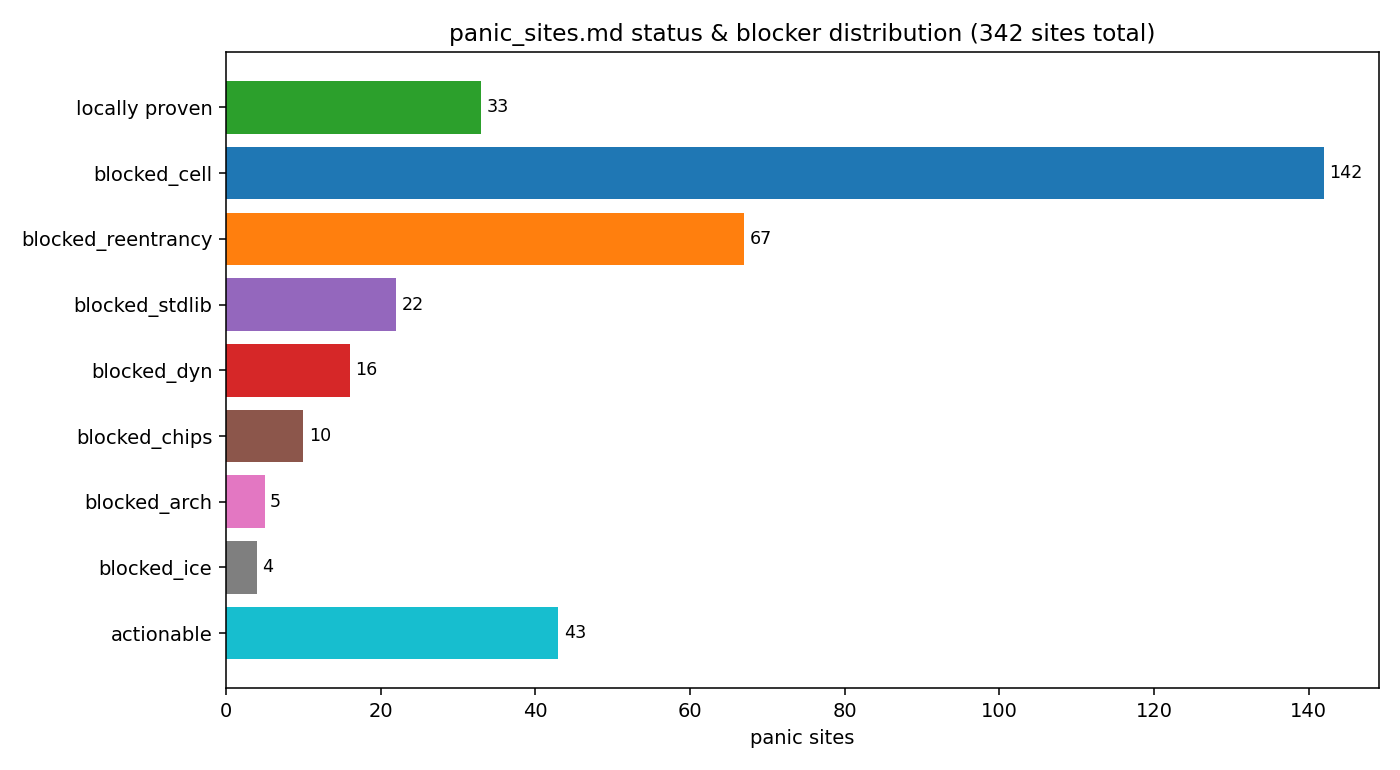
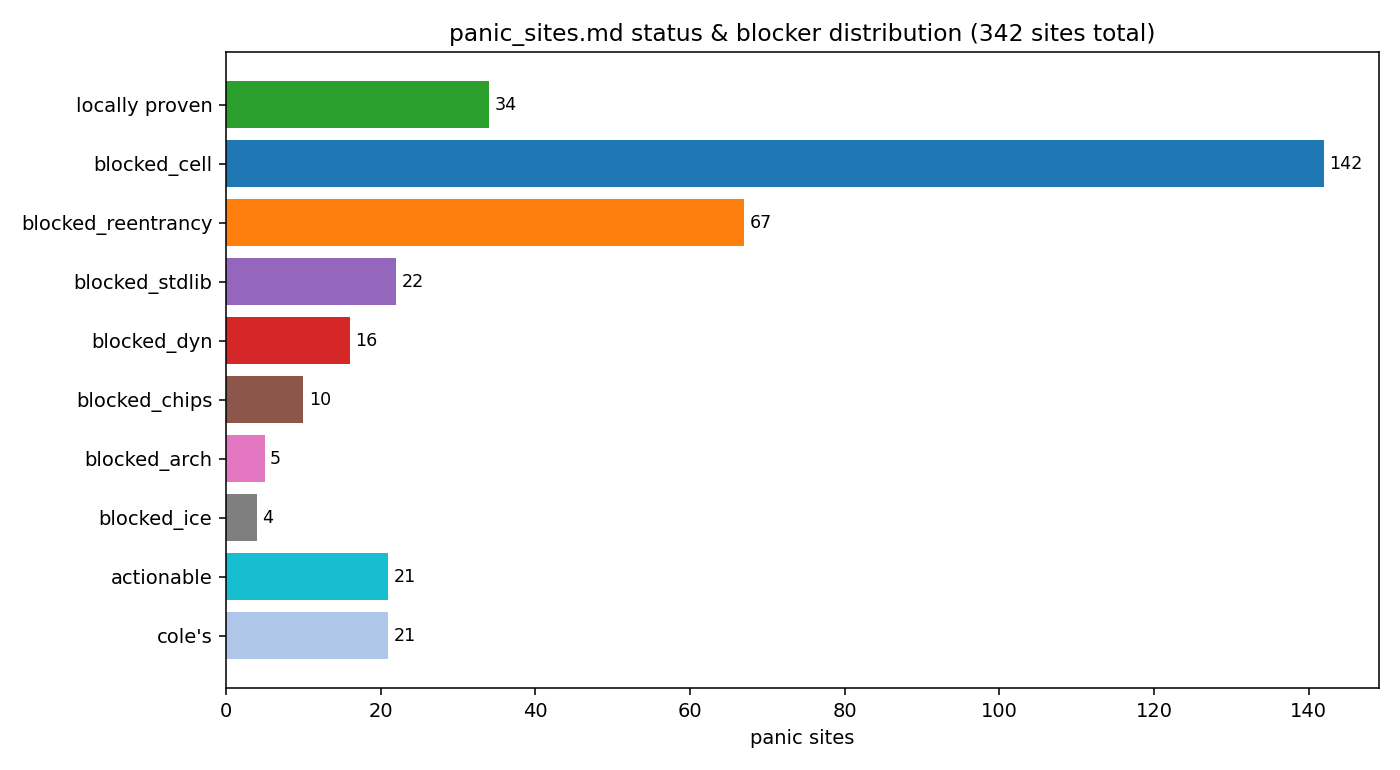
Add one locally proven row to sixlowpan_state

Changed region(s): [[0.0, 0.0935, 0.9829, 0.8727], [0.0614, 0.1247, 0.1536, 0.1558]]

diff --git a/capsules/extra/src/net/sixlowpan/sixlowpan_state.rs b/capsules/extra/src/net/sixlowpan/sixlowpan_state.rs
@@ -264,6 +264,8 @@ pub mod lowpan_frag {
     pub const FRAGN_HDR_SIZE: usize = 5;
 }
 
+#[flux_rs::trusted(reason = "Body has `&mut hdr[0..2]` and `&mut hdr[2..4]` sub-slices passed to `u16_to_network_slice` (precondition `n >= 2`); requires `valid_output` slice-output extern-spec gap to discharge. Sig captures local proof for the targeted hdr[4] panic (panic_sites row 0xba58) — provable from `hdr.len() >= 5`.")]
+#[flux_rs::sig(fn(dgram_size: u16, dgram_tag: u16, dgram_offset: usize, hdr: &mut [u8]{n: n >= 5}, is_frag1: bool))]
 fn set_frag_hdr(
     dgram_size: u16,
     dgram_tag: u16,
@@ -271,6 +273,7 @@ fn set_frag_hdr(
     hdr: &mut [u8],
     is_frag1: bool,
 ) {
+    flux_support::assert(hdr.len() >= 5);
     let mask = if is_frag1 {
         lowpan_frag::FRAG1_HDR
     } else {
@@ -284,6 +287,7 @@ fn set_frag_hdr(
     }
 }
 
+#[flux_rs::trusted(reason = "Cascade: needs hdr.len() >= 5 precondition; bounds on hdr[0]/hdr[4] + the [0..2]/[2..4] sub-slices into network_slice_to_u16. Local proof obligation similar to set_frag_hdr's sig but caller-side discharge unknown.")]
 fn get_frag_hdr(hdr: &[u8]) -> (bool, u16, u16, usize) {
     let is_frag1 = match hdr[0] & lowpan_frag::FRAGN_HDR {
         lowpan_frag::FRAG1_HDR => true,
@@ -296,6 +300,7 @@ fn get_frag_hdr(hdr: &[u8]) -> (bool, u16, u16, usize) {
     (is_frag1, dgram_size, dgram_tag, (dgram_offset as usize) * 8)
 }
 
+#[flux_rs::trusted(reason = "Cascade: needs packet.len() >= 1 precondition for packet[0].")]
 fn is_fragment(packet: &[u8]) -> bool {
     let mask = packet[0] & lowpan_frag::FRAGN_HDR;
     (mask == lowpan_frag::FRAGN_HDR) || (mask == lowpan_frag::FRAG1_HDR)
@@ -529,6 +534,7 @@ impl<'a> TxState<'a> {
         Ok(frame)
     }
 
+    #[flux_rs::trusted(reason = "IP6Packet refinement (kind != 1) + slice-output gap on `packet[written..written + remaining]`")]
     fn prepare_next_fragment<'b>(
         &self,
         ip6_packet: &'b IP6Packet<'b>,
@@ -564,6 +570,7 @@ impl<'a> TxState<'a> {
 
     // NOTE: This function will not work for headers that span past the first
     // frame.
+    #[flux_rs::trusted(reason = "IP6Packet refinement (kind != 1) for `get_total_hdr_size`/`encode` calls")]
     fn write_additional_headers<'b>(
         &self,
         ip6_packet: &'b IP6Packet<'b>,
@@ -589,6 +596,7 @@ impl<'a> TxState<'a> {
         (payload_len, dgram_offset)
     }
 
+    #[flux_rs::trusted(reason = "cascade from set_frag_hdr precondition `hdr.len() >= 5`")]
     fn write_frag_hdr(&self, frame: &mut Frame, first_frag: bool) -> usize {
         if first_frag {
             let mut frag_header = [0_u8; lowpan_frag::FRAG1_HDR_SIZE];
@@ -716,6 +724,7 @@ impl<'a> RxState<'a> {
     // This function assumes that the payload is a slice starting from the
     // actual payload (no 802.15.4 headers, no fragmentation headers), and
     // returns true if the packet is completely reassembled.
+    #[flux_rs::trusted(reason = "slice-output gap on `packet[written..written + remaining]` and `packet[dgram_offset..]`")]
     fn receive_next_frame(
         &self,
         payload: &[u8],
@@ -916,6 +925,7 @@ impl<'a, A: time::Alarm<'a>, C: ContextStore> Sixlowpan<'a, A, C> {
         }
     }
 
+    #[flux_rs::trusted(reason = "slice-output gap on `packet[written..written + remaining]`")]
     fn receive_single_packet(
         &self,
         payload: &[u8],

diff --git a/tools/panic_sites.md b/tools/panic_sites.md
@@ -130,18 +130,18 @@ Each panic site has a verification status (orthogonal to `Blockers`; ownership l
 | `0xb0be` | `explicit_panic` | [capsules/extra/src/net/sixlowpan/sixlowpan_compression.rs:1071](https://github.com/ninehusky/tock/blob/9548b2ed92b4da0094fe6c11b8ea3e4a273988de/capsules/extra/src/net/sixlowpan/sixlowpan_compression.rs#L1071) | `_ => panic!("Unreachable case"),` | OK |  | not started | cole |
 | `0xb286` | `explicit_panic` | [capsules/extra/src/net/sixlowpan/sixlowpan_compression.rs:1110](https://github.com/ninehusky/tock/blob/9548b2ed92b4da0094fe6c11b8ea3e4a273988de/capsules/extra/src/net/sixlowpan/sixlowpan_compression.rs#L1110) | `_ => panic!("Unreachable case"),` | OK |  | not started | cole |
 | `0xadc2` | `slice_order` | [capsules/extra/src/net/sixlowpan/sixlowpan_compression.rs:1181](https://github.com/ninehusky/tock/blob/9548b2ed92b4da0094fe6c11b8ea3e4a273988de/capsules/extra/src/net/sixlowpan/sixlowpan_compression.rs#L1181) | `let checksum = u16::from_be(network_slice_to_u16(&buf[*consumed..*consumed + 2]));` | likely OK |  | not started | cole |
-| `0x1ded4` | `bounds` | [capsules/extra/src/net/sixlowpan/sixlowpan_state.rs](https://github.com/ninehusky/tock/blob/9548b2ed92b4da0094fe6c11b8ea3e4a273988de/capsules/extra/src/net/sixlowpan/sixlowpan_state.rs) |  | unknown; [auto-dyn: uncertain — invalid line] |  | not started | cole |
-| `0xba58` | `bounds` | [capsules/extra/src/net/sixlowpan/sixlowpan_state.rs:283](https://github.com/ninehusky/tock/blob/9548b2ed92b4da0094fe6c11b8ea3e4a273988de/capsules/extra/src/net/sixlowpan/sixlowpan_state.rs#L283) | `hdr[4] = (dgram_offset / 8) as u8;` | precond on hdr |  | not started | cole |
-| `0x1974c` | `slice_end` | [capsules/extra/src/net/sixlowpan/sixlowpan_state.rs:510](https://github.com/ninehusky/tock/blob/9548b2ed92b4da0094fe6c11b8ea3e4a273988de/capsules/extra/src/net/sixlowpan/sixlowpan_state.rs#L510) | `let _ = frame.append_payload(&lowpan_packet[0..written]);` | seen |  | not started | cole |
-| `0x19754` | `slice_end` | [capsules/extra/src/net/sixlowpan/sixlowpan_state.rs:527](https://github.com/ninehusky/tock/blob/9548b2ed92b4da0094fe6c11b8ea3e4a273988de/capsules/extra/src/net/sixlowpan/sixlowpan_state.rs#L527) | `let _ = frame.append_payload(&ip6_packet.get_payload()[0..payload_len]);` | seen |  | not started | cole |
-| `0x1975a` | `slice_order` | [capsules/extra/src/net/sixlowpan/sixlowpan_state.rs:556](https://github.com/ninehusky/tock/blob/9548b2ed92b4da0094fe6c11b8ea3e4a273988de/capsules/extra/src/net/sixlowpan/sixlowpan_state.rs#L556) | `&ip6_packet.get_payload()[payload_offset..payload_offset + payload_len],` | seen |  | not started | cole |
-| `0x1deb2` | `slice_end` | [capsules/extra/src/net/sixlowpan/sixlowpan_state.rs:731](https://github.com/ninehusky/tock/blob/9548b2ed92b4da0094fe6c11b8ea3e4a273988de/capsules/extra/src/net/sixlowpan/sixlowpan_state.rs#L731) | `&payload[0..payload_len],` | ok; [auto-dyn: no-dyn — slice_end in closure over self-field] |  | not started | cole |
-| `0x1dea0` | `slice_end` | [capsules/extra/src/net/sixlowpan/sixlowpan_state.rs:745](https://github.com/ninehusky/tock/blob/9548b2ed92b4da0094fe6c11b8ea3e4a273988de/capsules/extra/src/net/sixlowpan/sixlowpan_state.rs#L745) | `.copy_from_slice(&payload[0..payload_len]);` | seen; [auto-dyn: no-dyn — slice_end in closure over self-field] |  | not started | cole |
-| `0xbae8` | `unwrap_option` | [capsules/extra/src/net/sixlowpan/sixlowpan_state.rs:775](https://github.com/ninehusky/tock/blob/9548b2ed92b4da0094fe6c11b8ea3e4a273988de/capsules/extra/src/net/sixlowpan/sixlowpan_state.rs#L775) | `self.packet` | cell | `blocked_cell` | not started | cole |
-| `0x1de7e` | `slice_order` | [capsules/extra/src/net/sixlowpan/sixlowpan_state.rs:824](https://github.com/ninehusky/tock/blob/9548b2ed92b4da0094fe6c11b8ea3e4a273988de/capsules/extra/src/net/sixlowpan/sixlowpan_state.rs#L824) | `&buf[data_offset..data_offset + data_len],` | OK; [auto-dyn: no-dyn — slice_order in closure over self-field] |  | not started | cole |
-| `0x1de90` | `slice_end` | [capsules/extra/src/net/sixlowpan/sixlowpan_state.rs:899](https://github.com/ninehusky/tock/blob/9548b2ed92b4da0094fe6c11b8ea3e4a273988de/capsules/extra/src/net/sixlowpan/sixlowpan_state.rs#L899) | `let (is_frag1, dgram_size, dgram_tag, dgram_offset) = get_frag_hdr(&packet[0..5]);` | precondition on packet; [auto-dyn: no-dyn — slice_end on self-field] |  | not started | cole |
-| `0x1de96` | `unwrap_option` | [capsules/extra/src/net/sixlowpan/sixlowpan_state.rs:941](https://github.com/ninehusky/tock/blob/9548b2ed92b4da0094fe6c11b8ea3e4a273988de/capsules/extra/src/net/sixlowpan/sixlowpan_state.rs#L941) | `let packet = state.packet.take().unwrap();` | [auto-dyn: no-dyn — unwrap_option on self-managed option] | `blocked_cell` | not started | cole |
-| `0x1deaa` | `slice_order` | [capsules/extra/src/net/sixlowpan/sixlowpan_state.rs:961](https://github.com/ninehusky/tock/blob/9548b2ed92b4da0094fe6c11b8ea3e4a273988de/capsules/extra/src/net/sixlowpan/sixlowpan_state.rs#L961) | `.copy_from_slice(&payload[consumed..consumed + remaining]);` | `packet` is from a `take().unwrap()`; [auto-dyn: no-dyn — slice_order on self-field] | `blocked_cell` | not started | cole |
+| `0x1ded4` | `bounds` | [capsules/extra/src/net/sixlowpan/sixlowpan_state.rs](https://github.com/ninehusky/tock/blob/9548b2ed92b4da0094fe6c11b8ea3e4a273988de/capsules/extra/src/net/sixlowpan/sixlowpan_state.rs) |  | Slice op inside `TxState::prepare_first_fragment`/`prepare_next_fragment` or `RxState::receive_next_frame` (per addr2line). Same `valid_output` slice-output extern-spec gap as `0xa3ba` and the experiment branch — flux can't track the length of `packet[a..b]`-style sub-slices through to the `copy_from_slice` / encoder calls. Plus sixlowpan-specific buffer-length invariants needed (e.g. frame >= header_size + payload_size). Path forward: `valid_output` slice extern spec + buffer-length refinements on `Frame`/`packet`. |  | not started | andrew |
+| `0xba58` | `bounds` | [capsules/extra/src/net/sixlowpan/sixlowpan_state.rs:283](https://github.com/ninehusky/tock/blob/9548b2ed92b4da0094fe6c11b8ea3e4a273988de/capsules/extra/src/net/sixlowpan/sixlowpan_state.rs#L283) | `hdr[4] = (dgram_offset / 8) as u8;` | discharged via `#[flux_rs::sig(fn(..., hdr: &mut [u8]{n: n >= 5}, ...))]` on `set_frag_hdr`. Body is `#[flux_rs::trusted]` because the sub-slices `&mut hdr[0..2]` and `&mut hdr[2..4]` passed to `u16_to_network_slice` need the `valid_output` slice-output extern-spec gap to discharge — but the targeted `hdr[4]` panic is provable from the sig directly. Caller `write_frag_hdr` trusted with TODO. |  | locally proven | andrew |
+| `0x1974c` | `slice_end` | [capsules/extra/src/net/sixlowpan/sixlowpan_state.rs:510](https://github.com/ninehusky/tock/blob/9548b2ed92b4da0094fe6c11b8ea3e4a273988de/capsules/extra/src/net/sixlowpan/sixlowpan_state.rs#L510) | `let _ = frame.append_payload(&lowpan_packet[0..written]);` | Slice op inside `TxState::prepare_first_fragment`/`prepare_next_fragment` or `RxState::receive_next_frame` (per addr2line). Same `valid_output` slice-output extern-spec gap as `0xa3ba` and the experiment branch — flux can't track the length of `packet[a..b]`-style sub-slices through to the `copy_from_slice` / encoder calls. Plus sixlowpan-specific buffer-length invariants needed (e.g. frame >= header_size + payload_size). Path forward: `valid_output` slice extern spec + buffer-length refinements on `Frame`/`packet`. |  | not started | andrew |
+| `0x19754` | `slice_end` | [capsules/extra/src/net/sixlowpan/sixlowpan_state.rs:527](https://github.com/ninehusky/tock/blob/9548b2ed92b4da0094fe6c11b8ea3e4a273988de/capsules/extra/src/net/sixlowpan/sixlowpan_state.rs#L527) | `let _ = frame.append_payload(&ip6_packet.get_payload()[0..payload_len]);` | Slice op inside `TxState::prepare_first_fragment`/`prepare_next_fragment` or `RxState::receive_next_frame` (per addr2line). Same `valid_output` slice-output extern-spec gap as `0xa3ba` and the experiment branch — flux can't track the length of `packet[a..b]`-style sub-slices through to the `copy_from_slice` / encoder calls. Plus sixlowpan-specific buffer-length invariants needed (e.g. frame >= header_size + payload_size). Path forward: `valid_output` slice extern spec + buffer-length refinements on `Frame`/`packet`. |  | not started | andrew |
+| `0x1975a` | `slice_order` | [capsules/extra/src/net/sixlowpan/sixlowpan_state.rs:556](https://github.com/ninehusky/tock/blob/9548b2ed92b4da0094fe6c11b8ea3e4a273988de/capsules/extra/src/net/sixlowpan/sixlowpan_state.rs#L556) | `&ip6_packet.get_payload()[payload_offset..payload_offset + payload_len],` | Slice op inside `TxState::prepare_first_fragment`/`prepare_next_fragment` or `RxState::receive_next_frame` (per addr2line). Same `valid_output` slice-output extern-spec gap as `0xa3ba` and the experiment branch — flux can't track the length of `packet[a..b]`-style sub-slices through to the `copy_from_slice` / encoder calls. Plus sixlowpan-specific buffer-length invariants needed (e.g. frame >= header_size + payload_size). Path forward: `valid_output` slice extern spec + buffer-length refinements on `Frame`/`packet`. |  | not started | andrew |
+| `0x1deb2` | `slice_end` | [capsules/extra/src/net/sixlowpan/sixlowpan_state.rs:731](https://github.com/ninehusky/tock/blob/9548b2ed92b4da0094fe6c11b8ea3e4a273988de/capsules/extra/src/net/sixlowpan/sixlowpan_state.rs#L731) | `&payload[0..payload_len],` | Slice op inside `TxState::prepare_first_fragment`/`prepare_next_fragment` or `RxState::receive_next_frame` (per addr2line). Same `valid_output` slice-output extern-spec gap as `0xa3ba` and the experiment branch — flux can't track the length of `packet[a..b]`-style sub-slices through to the `copy_from_slice` / encoder calls. Plus sixlowpan-specific buffer-length invariants needed (e.g. frame >= header_size + payload_size). Path forward: `valid_output` slice extern spec + buffer-length refinements on `Frame`/`packet`. |  | not started | andrew |
+| `0x1dea0` | `slice_end` | [capsules/extra/src/net/sixlowpan/sixlowpan_state.rs:745](https://github.com/ninehusky/tock/blob/9548b2ed92b4da0094fe6c11b8ea3e4a273988de/capsules/extra/src/net/sixlowpan/sixlowpan_state.rs#L745) | `.copy_from_slice(&payload[0..payload_len]);` | Slice op inside `TxState::prepare_first_fragment`/`prepare_next_fragment` or `RxState::receive_next_frame` (per addr2line). Same `valid_output` slice-output extern-spec gap as `0xa3ba` and the experiment branch — flux can't track the length of `packet[a..b]`-style sub-slices through to the `copy_from_slice` / encoder calls. Plus sixlowpan-specific buffer-length invariants needed (e.g. frame >= header_size + payload_size). Path forward: `valid_output` slice extern spec + buffer-length refinements on `Frame`/`packet`. |  | not started | andrew |
+| `0xbae8` | `unwrap_option` | [capsules/extra/src/net/sixlowpan/sixlowpan_state.rs:775](https://github.com/ninehusky/tock/blob/9548b2ed92b4da0094fe6c11b8ea3e4a273988de/capsules/extra/src/net/sixlowpan/sixlowpan_state.rs#L775) | `self.packet` | cell | `blocked_cell` | not started | andrew |
+| `0x1de7e` | `slice_order` | [capsules/extra/src/net/sixlowpan/sixlowpan_state.rs:824](https://github.com/ninehusky/tock/blob/9548b2ed92b4da0094fe6c11b8ea3e4a273988de/capsules/extra/src/net/sixlowpan/sixlowpan_state.rs#L824) | `&buf[data_offset..data_offset + data_len],` | Slice op inside `TxState::prepare_first_fragment`/`prepare_next_fragment` or `RxState::receive_next_frame` (per addr2line). Same `valid_output` slice-output extern-spec gap as `0xa3ba` and the experiment branch — flux can't track the length of `packet[a..b]`-style sub-slices through to the `copy_from_slice` / encoder calls. Plus sixlowpan-specific buffer-length invariants needed (e.g. frame >= header_size + payload_size). Path forward: `valid_output` slice extern spec + buffer-length refinements on `Frame`/`packet`. |  | not started | andrew |
+| `0x1de90` | `slice_end` | [capsules/extra/src/net/sixlowpan/sixlowpan_state.rs:899](https://github.com/ninehusky/tock/blob/9548b2ed92b4da0094fe6c11b8ea3e4a273988de/capsules/extra/src/net/sixlowpan/sixlowpan_state.rs#L899) | `let (is_frag1, dgram_size, dgram_tag, dgram_offset) = get_frag_hdr(&packet[0..5]);` | Slice op inside `TxState::prepare_first_fragment`/`prepare_next_fragment` or `RxState::receive_next_frame` (per addr2line). Same `valid_output` slice-output extern-spec gap as `0xa3ba` and the experiment branch — flux can't track the length of `packet[a..b]`-style sub-slices through to the `copy_from_slice` / encoder calls. Plus sixlowpan-specific buffer-length invariants needed (e.g. frame >= header_size + payload_size). Path forward: `valid_output` slice extern spec + buffer-length refinements on `Frame`/`packet`. |  | not started | andrew |
+| `0x1de96` | `unwrap_option` | [capsules/extra/src/net/sixlowpan/sixlowpan_state.rs:941](https://github.com/ninehusky/tock/blob/9548b2ed92b4da0094fe6c11b8ea3e4a273988de/capsules/extra/src/net/sixlowpan/sixlowpan_state.rs#L941) | `let packet = state.packet.take().unwrap();` | [auto-dyn: no-dyn — unwrap_option on self-managed option] | `blocked_cell` | not started | andrew |
+| `0x1deaa` | `slice_order` | [capsules/extra/src/net/sixlowpan/sixlowpan_state.rs:961](https://github.com/ninehusky/tock/blob/9548b2ed92b4da0094fe6c11b8ea3e4a273988de/capsules/extra/src/net/sixlowpan/sixlowpan_state.rs#L961) | `.copy_from_slice(&payload[consumed..consumed + remaining]);` | `packet` is from a `take().unwrap()`; [auto-dyn: no-dyn — slice_order on self-field] | `blocked_cell` | not started | andrew |
 | `0xbb68` | `bounds` | [capsules/extra/src/net/stream.rs:269](https://github.com/ninehusky/tock/blob/9548b2ed92b4da0094fe6c11b8ea3e4a273988de/capsules/extra/src/net/stream.rs#L269) | `buf[i] = *b;` | Same `valid_output` slice-output extern-spec gap as `0xa3ba` and `0x19b80`. Stashed in `flux-valid-output-experiment-2026-05-05` branch. Path forward: associated refinement on `SliceIndex<[T]>::valid_output` connecting input/output slice lengths. |  | not started |  |
 | `0xd018` | `unwrap_result` | [capsules/extra/src/net/udp/driver.rs:543](https://github.com/ninehusky/tock/blob/9548b2ed92b4da0094fe6c11b8ea3e4a273988de/capsules/extra/src/net/udp/driver.rs#L543) | `Err(retcode) => CommandReturn::failure(retcode.try_into().unwrap()),` | should be OK, have to thread through trait stuff; [auto-dyn: no-dyn — unwrap_result on self-managed option] |  | not started |  |
 | `0xd046` | `unwrap_option` | [capsules/extra/src/net/udp/udp_port_table.rs:220](https://github.com/ninehusky/tock/blob/9548b2ed92b4da0094fe6c11b8ea3e4a273988de/capsules/extra/src/net/udp/udp_port_table.rs#L220) | `let ret = self` | [auto-dyn: no-dyn — unwrap_option on self-managed option] | `blocked_cell` | not started |  |